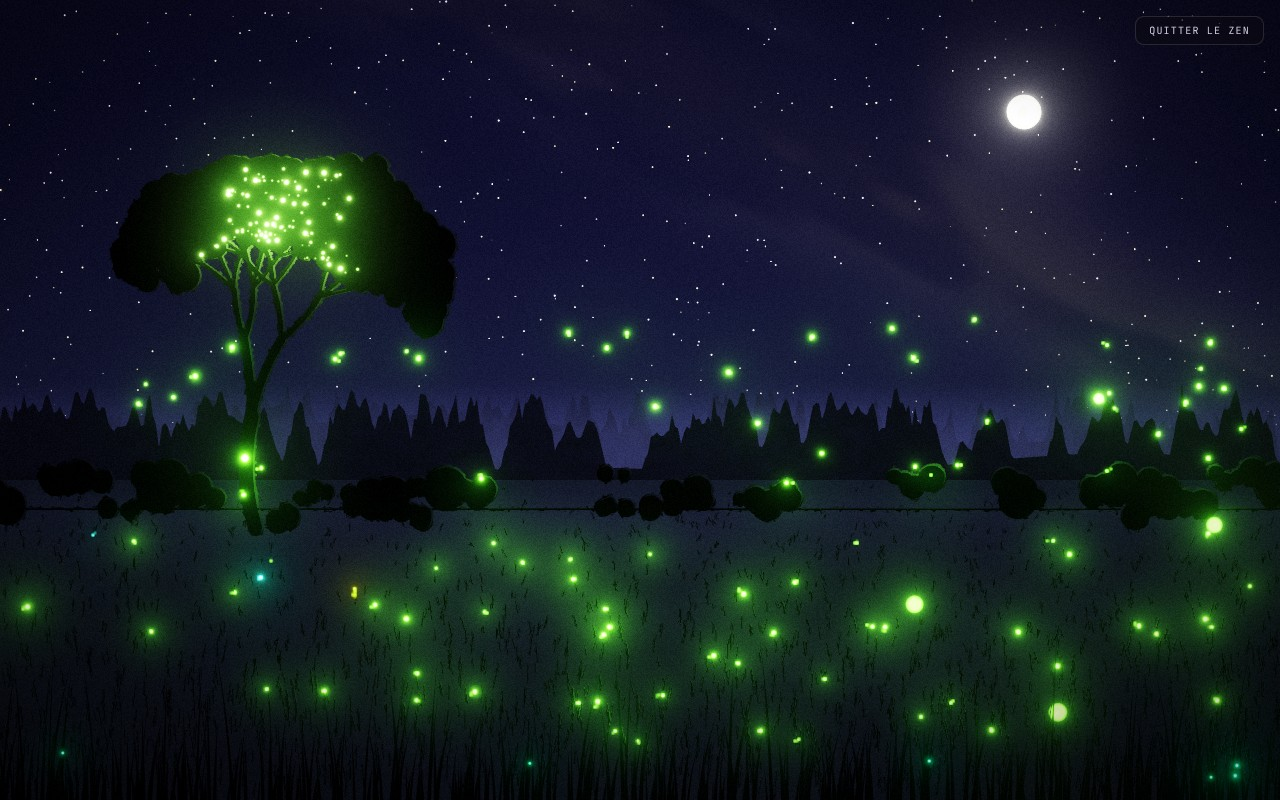
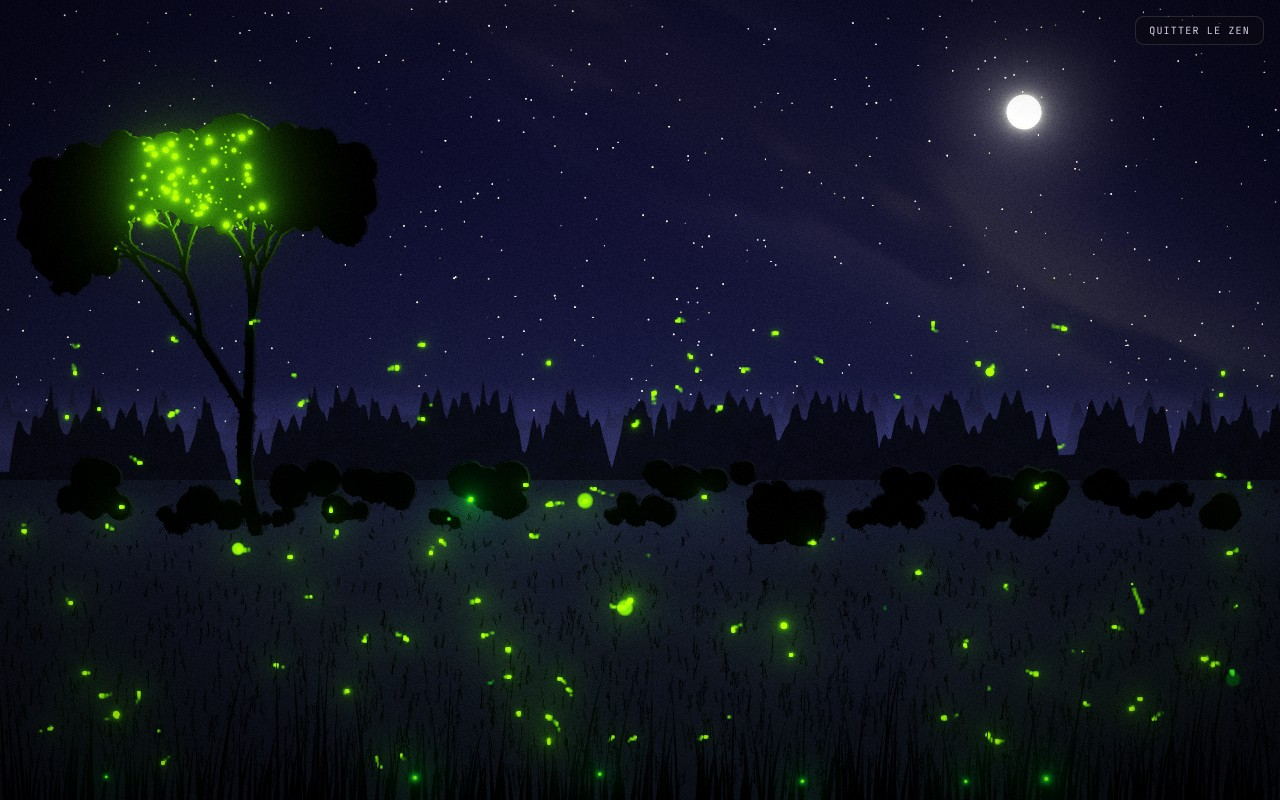
Lucioles : couleurs vraies tirées du spectre, mode doux (relecture de Kurt)
Bandes d'environ 50 nm autour du pic de chaque espèce (Photinus 562-563 nm,
Photuris et Lampyris 552, Pteroptyx 565), converties par la CIE 1931 ;
fausses couleurs seulement à la demande, annoncées comme telles. Avec
env.doux, l'éclairage d'ensemble baisse fortement et les points restent nets.
Trait noir parasite retiré ; étiquettes sous la bande réservée (view.y0).

Claude-Session: https://claude.ai/code/session_01MS9d5JmMjbNw1P1jiRQA2y

diff --git a/app/js/machines/s-lucioles.js b/app/js/machines/s-lucioles.js
@@ -1,6 +1,8 @@
 /* Fascination — Les Lucioles · dialogues de lumière dans la nuit d'été */
 (function boot() {
   if (!window.FK) return setTimeout(boot, 12);
+  // gardés d'une construction à l'autre (le mode zen ou une rotation reconstruisent la machine) : rien ne se réinitialise sans demande
+  const keep = { scene: 'nuit', cfg: null };
   const { TAU, clamp, rnd, rint, layer, scale } = window.FK;
   const gauss = () => (Math.random() + Math.random() + Math.random() + Math.random() - 2) * 1.22;
   const css = (c, a) => `rgba(${c[0] | 0},${c[1] | 0},${c[2] | 0},${a})`;
@@ -11,16 +13,42 @@
     g.fillStyle = gr; g.fillRect(0, 0, 64, 64);
     return s.c;
   }
+  // Couleurs vraies : chaque espèce émet une bande d'environ 50 nm autour de son pic (λmax), convertie en couleur par les
+  // fonctions CIE 1931. Toutes sont jaune-vert, à quelques nanomètres près : les espèces se reconnaissent à leur rythme,
+  // pas à leur couleur (c'est ce qu'imitent les femelles Photuris). Les « fausses couleurs », à la demande, aident à les repérer.
+  // Pics retenus (à confirmer) : Photinus vers 562 nm (Lall et al., 1980), Photuris vers 552, Lampyris vers 552, Pteroptyx vers 565.
+  const LMAX = { carolinus: 562, pyralis: 563, photuris: 552, pteroptyx: 565, lampyris: 552 };
+  function bandeLin(pic, fwhm) {
+    if (window.FKR && window.FKR.couleur && window.FKR.couleur.bande) return window.FKR.couleur.bande(pic, fwhm);
+    const g = (x, m, s1, s2) => { const t = (x - m) / (x < m ? s1 : s2); return Math.exp(-0.5 * t * t); };
+    let X = 0, Y = 0, Z = 0;
+    for (let l = 380; l <= 780; l += 2) {
+      const e = Math.exp(-0.5 * Math.pow((l - pic) / (fwhm / 2.3548), 2));
+      X += e * (1.056 * g(l, 599.8, 37.9, 31.0) + 0.362 * g(l, 442.0, 16.0, 26.7) - 0.065 * g(l, 501.1, 20.4, 26.2));
+      Y += e * (0.821 * g(l, 568.8, 46.9, 40.5) + 0.286 * g(l, 530.9, 16.3, 31.1));
+      Z += e * (1.217 * g(l, 437.0, 11.8, 36.0) + 0.681 * g(l, 459.0, 26.0, 13.8));
+    }
+    const c = [3.2406 * X - 1.5372 * Y - 0.4986 * Z, -0.9689 * X + 1.8758 * Y + 0.0415 * Z, 0.0557 * X - 0.204 * Y + 1.057 * Z].map((v) => Math.max(0, v));
+    const m = Math.max(c[0], c[1], c[2]) || 1;
+    return c.map((v) => v / m);
+  }
+  const versSRGB = (v) => Math.round(255 * (v <= 0.0031308 ? 12.92 * v : 1.055 * Math.pow(v, 1 / 2.4) - 0.055));
   const SPC = {
-    carolinus: { nom: 'Photinus carolinus', fr: 'luciole synchrone', col: [190, 255, 100], rise: 0.05, dec: 0.13 },
-    pyralis: { nom: 'Photinus pyralis', fr: 'luciole « grande ourse »', col: [255, 204, 76], rise: 0.14, dec: 0.3 },
-    photuris: { nom: 'Photuris versicolor', fr: 'luciole femme fatale', col: [110, 255, 196], rise: 0.05, dec: 0.12 },
-    pteroptyx: { nom: 'Pteroptyx malaccae', fr: 'luciole des mangroves', col: [224, 255, 140], rise: 0.03, dec: 0.08 },
-    lampyris: { nom: 'Lampyris noctiluca', fr: 'ver luisant', col: [96, 255, 150], rise: 1, dec: 1 },
+    carolinus: { nom: 'Photinus carolinus', fr: 'luciole synchrone', faux: [190, 255, 100], rise: 0.05, dec: 0.13 },
+    pyralis: { nom: 'Photinus pyralis', fr: 'luciole « grande ourse »', faux: [255, 204, 76], rise: 0.14, dec: 0.3 },
+    photuris: { nom: 'Photuris versicolor', fr: 'luciole femme fatale', faux: [110, 255, 196], rise: 0.05, dec: 0.12 },
+    pteroptyx: { nom: 'Pteroptyx malaccae', fr: 'luciole des mangroves', faux: [224, 255, 140], rise: 0.03, dec: 0.08 },
+    lampyris: { nom: 'Lampyris noctiluca', fr: 'ver luisant', faux: [96, 255, 150], rise: 1, dec: 1 },
   };
+  for (const k in SPC) {
+    const sp = SPC[k];
+    sp.lin = bandeLin(LMAX[k], 50);
+    sp.vrai = sp.lin.map(versSRGB);
+    // la couleur affichée : la vraie, sauf si l'on a demandé les fausses couleurs
+    Object.defineProperty(sp, 'col', { get() { return keep.cfg && keep.cfg.fausses ? sp.faux : sp.vrai; } });
+  }
+  const cssHex = (c) => '#' + c.map((v) => v.toString(16).padStart(2, '0')).join('');
   const envF = (sp, a) => { const s = SPC[sp]; return a < s.rise ? a / s.rise : Math.exp(-(a - s.rise) / s.dec); };
-  // gardés d'une construction à l'autre (le mode zen ou une rotation reconstruisent la machine) : rien ne se réinitialise sans demande
-  const keep = { scene: 'nuit', cfg: null };
 
   window.FASC.push({
     id: 'lucioles', name: 'Les Lucioles', cat: 'Vivant', glyph: '✳',
@@ -28,11 +56,11 @@
     hint: 'OBSERVER : touchez une luciole pour l’identifier · SIGNAL : répondez à un mâle · TORCHE : maintenez pour éclairer · SOUFFLE : glissez · PERTURBER : brisez la synchronie · LÂCHER : ajoutez l’espèce choisie.',
     intro: 'Une nuit d’été où se croisent cinq lucioles du monde entier. Chaque flash est un mot : certaines espèces finissent par clignoter toutes ensemble, d’autres se font la cour par questions-réponses, et une prédatrice imite les femelles pour attirer les mâles… et les dévorer.',
     legend: [
-      { color: '#beff64', name: 'Photinus carolinus', role: 'synchrone · Great Smoky Mountains', desc: 'Salves de 5 à 8 flashs, puis l’obscurité. Chaque mâle avance un peu son horloge quand il voit un voisin s’allumer : peu à peu, des vagues de lumière balaient la vallée, puis tout le monde clignote ensemble.' },
-      { color: '#ffcc4c', name: 'Photinus pyralis', role: 'dialogue · « grande ourse »', desc: 'Le mâle plonge puis remonte en s’allumant, et trace un J. La femelle, posée dans l’herbe, répond environ deux secondes plus tard. À chaque réponse, il se rapproche.' },
-      { color: '#6effc4', name: 'Photuris versicolor', role: 'femme fatale', desc: 'La femelle imite la réponse des femelles Photinus. Le mâle trompé s’approche… et se fait dévorer.' },
-      { color: '#e0ff8c', name: 'Pteroptyx malaccae', role: 'synchrone · mangroves d’Asie', desc: 'Des milliers de mâles se posent sur un même arbre et clignotent à l’unisson, presque deux fois par seconde : l’arbre entier s’illumine comme un phare.' },
-      { color: '#60ff96', name: 'Lampyris noctiluca', role: 'ver luisant · Europe', desc: 'La femelle, sans ailes, grimpe sur une herbe et brille en continu pour attirer les mâles. Elle s’éteint si on la dérange.' },
+      { color: cssHex(SPC.carolinus.vrai), name: 'Photinus carolinus', role: 'synchrone · Great Smoky Mountains', desc: 'Salves de 5 à 8 flashs, puis l’obscurité. Chaque mâle avance un peu son horloge quand il voit un voisin s’allumer : peu à peu, des vagues de lumière balaient la vallée, puis tout le monde clignote ensemble.' },
+      { color: cssHex(SPC.pyralis.vrai), name: 'Photinus pyralis', role: 'dialogue · « grande ourse »', desc: 'Le mâle plonge puis remonte en s’allumant, et trace un J. La femelle, posée dans l’herbe, répond environ deux secondes plus tard. À chaque réponse, il se rapproche.' },
+      { color: cssHex(SPC.photuris.vrai), name: 'Photuris versicolor', role: 'femme fatale', desc: 'La femelle imite la réponse des femelles Photinus. Le mâle trompé s’approche… et se fait dévorer.' },
+      { color: cssHex(SPC.pteroptyx.vrai), name: 'Pteroptyx malaccae', role: 'synchrone · mangroves d’Asie', desc: 'Des milliers de mâles se posent sur un même arbre et clignotent à l’unisson, presque deux fois par seconde : l’arbre entier s’illumine comme un phare.' },
+      { color: cssHex(SPC.lampyris.vrai), name: 'Lampyris noctiluca', role: 'ver luisant · Europe', desc: 'La femelle, sans ailes, grimpe sur une herbe et brille en continu pour attirer les mâles. Elle s’éteint si on la dérange.' },
     ],
     about: [
       'La lumière des lucioles est une lumière froide : une réaction chimique (luciférine et luciférase) convertit presque toute son énergie en lumière, sans chaleur.',
@@ -42,7 +70,7 @@
     ],
     tools: [
       { id: 'observer', label: 'observer', desc: 'Touchez une luciole, même éteinte, pour l’identifier et suivre ce qu’elle fait.' },
-      { id: 'signal', label: 'signal', desc: 'Touchez pour émettre un bref flash. Répondez environ 2 secondes après le J ambré d’un mâle Photinus pyralis : il viendra vers vous. Les synchrones proches s’allument aussi.' },
+      { id: 'signal', label: 'signal', desc: 'Touchez pour émettre un bref flash. Répondez environ 2 secondes après le J lumineux d’un mâle Photinus pyralis : il viendra vers vous. Les synchrones proches s’allument aussi.' },
       { id: 'torche', label: 'torche', desc: 'Maintenez pour éclairer : les lucioles se taisent dans la lumière et s’en écartent, comme sous un lampadaire.' },
       { id: 'souffle', label: 'souffle', desc: 'Glissez pour souffler : l’air pousse les lucioles et couche les herbes.' },
       { id: 'perturber', label: 'perturber', desc: 'Touchez pour dérégler les horloges autour de votre doigt, puis regardez la synchronie se reconstruire.' },
@@ -53,14 +81,14 @@
       let quiet = true;
       const snd = () => !quiet && au && au.on;
       const kS = clamp(Math.min(W, H) / 800, 0.7, 1.4), area = clamp((W * H) / 1.2e6, 0.35, 1.3);
-      const cfg = keep.cfg || (keep.cfg = { moon: 0.2, poll: 0, eps: 0.1, K: 0.9, trail: 0.5, dialog: true, sel: 'carolinus' });
+      const cfg = keep.cfg || (keep.cfg = { moon: 0.2, poll: 0, eps: 0.1, K: 0.9, trail: 0.5, dialog: true, sel: 'carolinus', fausses: false });
       const timers = [];
       const later = (ms, fn) => timers.push(setTimeout(fn, ms));
       const view = () => { const v = env.view || { x0: 0, x1: W }; return { x0: v.x0, x1: v.x1, w: v.x1 - v.x0 }; };
       const hor = H * 0.6, v0 = view();
       const moon = { x: v0.x0 + v0.w * 0.8, y: H * 0.14, r: 17 * kS };
       const SPR = {};
-      for (const k in SPC) SPR[k] = glow(SPC[k].col);
+      for (const k in SPC) { const v = glow(SPC[k].vrai), fz = glow(SPC[k].faux); Object.defineProperty(SPR, k, { get: () => (cfg.fausses ? fz : v) }); }
       const sprCore = glow([255, 255, 236]), sprSig = glow([255, 238, 205]), sprMoon = glow([190, 210, 255]), sprTorch = glow([255, 228, 176]);
 
       /* décor */
@@ -136,7 +164,6 @@
           for (let j = 0; j < 4; j++) { const xx = x + rnd(r, -r), yy = y + rnd(r * 0.3, -r * 0.4), rr = r * rnd(0.8, 0.4); g.moveTo(xx + rr, yy); g.arc(xx, yy, rr, 0, TAU); }
         }
         g.fill();
-        g.fillRect(0, hor + H * 0.035, W, 2);
         g.strokeStyle = '#03050a'; g.lineWidth = 1;
         g.beginPath();
         for (let k = 0; k < W * 1.4; k++) {
@@ -395,7 +422,7 @@
       function drawLabel() {
         const f = label.f, a = Math.min(1, label.t, (6 - label.t) * 2.5);
         if (a <= 0.01 || f.dead) return;
-        const sp = SPC[f.sp], side = f.x > W * 0.65 ? -1 : 1, lx = f.x + side * 46, ly = f.y - 38;
+        const v0 = env.view || {}, sp = SPC[f.sp], side = f.x > W * 0.65 ? -1 : 1, lx = f.x + side * 46, ly = f.y - 38 < (v0.y0 || 0) + 24 ? f.y + 46 : f.y - 38;
         ctx.save();
         ctx.globalAlpha = 1; ctx.globalCompositeOperation = 'source-over';
         ctx.strokeStyle = css(sp.col, (a * 0.7).toFixed(3)); ctx.lineWidth = 1;
@@ -459,7 +486,7 @@
          et la brume. Le ciel suit la lune et la pollution lumineuse : les étoiles faibles et la Voie lactée
          s'effacent quand le ciel s'éclaircit. */
       const LIN = {};
-      for (const k in SPC) LIN[k] = SPC[k].col.map((c) => Math.pow(c / 255, 2.2));
+      for (const k in SPC) { const fz = SPC[k].faux.map((c) => Math.pow(c / 255, 2.2)); Object.defineProperty(LIN, k, { get: () => (cfg.fausses ? fz : SPC[k].lin) }); }
       let gfx = null;
       try { gfx = makeGfx(); } catch (e) { console.warn('Les Lucioles : repli en 2D', e); gfx = null; }
 
@@ -689,7 +716,7 @@ void main(){
 
         const G = { lost: false };
         K.canvas.addEventListener('webglcontextlost', (e) => { e.preventDefault(); G.lost = true; });
-        let trailOn = false;
+        let trailOn = false, soft = 0;
         // une luciole : son cœur (net ou flou selon la distance) et sa lumière portée
         function fly(B, f, b, k) {
           const z = f.z, c = LIN[f.sp], r = (2.2 + 2.2 * b) * Math.sqrt(z) * kS * (k || 1), I = b * 16 * (0.35 + 0.65 * z);
@@ -698,11 +725,14 @@ void main(){
             B.push(f.x, f.y, R, I * Math.min(1, (r / R) * (r / R)) * 1.6, c[0], c[1], c[2], 1);
           } else B.push(f.x, f.y, r, I, c[0], c[1], c[2], 0);
           // la lueur de la lanterne dans l'air humide, puis la lumière portée sur ce qui l'entoure
-          B.push(f.x, f.y, (4 + 11 * b) * z * kS, b * 0.12, c[0], c[1], c[2], 3);
-          bLight.push(f.x, f.y, 110 * kS * (0.6 + 0.4 * z), b * (f.sp === 'lampyris' ? 0.22 : 0.3), c[0], c[1], c[2], 2);
+          B.push(f.x, f.y, (4 + 11 * b) * z * kS, b * 0.12 * (1 - 0.6 * soft), c[0], c[1], c[2], 3);
+          bLight.push(f.x, f.y, 110 * kS * (0.6 + 0.4 * z), b * (f.sp === 'lampyris' ? 0.22 : 0.3) * (1 - 0.82 * soft), c[0], c[1], c[2], 2);
         }
         G.draw = function (dt, nP) {
           bFar.n = bNear.n = bTop.n = bLight.n = bSeg.n = bGrass.n = 0;
+          // mode doux (photosensibilité) : quand des centaines de lucioles s'allument ensemble, l'éclairage d'ensemble
+          // ne doit pas faire clignoter tout l'écran ; on le réduit fortement et l'on garde des points nets
+          soft = env.doux ? 1 : 0;
           const trail = cfg.trail > 0.01;
           for (const f of F) {
             const b = bright(f);
@@ -767,7 +797,7 @@ void main(){
           draw(pSpr, bTop, cab.scene, 4);
           gl.disable(gl.BLEND);
           // 9. développement : halo, courbe filmique, vignettage, grain de pellicule de nuit
-          cab.finish({ expo: 1.8, bloom: 1.0, thr: 0.8, knee: 0.6, radius: 0.8, vig: 0.45, grain: 0.045, grainBlack: 0.5, sat: 1.05 });
+          cab.finish({ expo: 1.8, bloom: soft ? 0.55 : 1.0, thr: 0.8, knee: 0.6, radius: 0.8, vig: 0.45, grain: 0.045, grainBlack: 0.5, sat: 1.05 });
           ctx.save();
           ctx.globalCompositeOperation = 'copy';
           ctx.drawImage(K.canvas, 0, 0, W, H);
@@ -834,7 +864,7 @@ void main(){
           let sb = 0;
           for (const f of F) if (f.sp === 'pteroptyx') sb += bright(f);
           const fr = sb / nP;
-          if (fr > 0.02) { const s = H * 0.75; ctx.globalAlpha = Math.min(1, fr * 0.5 * Math.min(1, nP / 150)); ctx.drawImage(SPR.pteroptyx, tree.cx - s / 2, tree.cy - s / 2, s, s); }
+          if (fr > 0.02) { const s = H * 0.75; ctx.globalAlpha = Math.min(1, fr * 0.5 * Math.min(1, nP / 150)) * (env.doux ? 0.25 : 1); ctx.drawImage(SPR.pteroptyx, tree.cx - s / 2, tree.cy - s / 2, s, s); }
         }
         for (const f of F) if (f.sp === 'pteroptyx' || (f.st !== 'perche' && f.z >= 0.6)) { const b = bright(f); if (b > 0.02) drawGlow(f, b); }
         ctx.globalAlpha = 1;
@@ -856,7 +886,7 @@ void main(){
           const b = bright(f);
           if (b < 0.15 || f.z < 0.6 || f.y < hor) continue;
           const s = 190 * f.z * kS;
-          ctx.globalAlpha = b * 0.09; ctx.drawImage(SPR[f.sp], f.x - s / 2, f.y - s / 2, s, s);
+          ctx.globalAlpha = b * 0.09 * (env.doux ? 0.25 : 1); ctx.drawImage(SPR[f.sp], f.x - s / 2, f.y - s / 2, s, s);
         }
         for (let i = sigs.length - 1; i >= 0; i--) {
           const s = sigs[i];
@@ -976,6 +1006,8 @@ void main(){
           L.push({ type: 'section', label: 'Affichage' });
           L.push({ type: 'slider', label: 'Pose longue', min: 0, max: 1, step: 0.02, value: cfg.trail, fmt: (v) => (v < 0.01 ? 'désactivée' : Math.round(v * 100) + ' %'), set: (v) => { cfg.trail = v; } });
           L.push({ type: 'toggle', label: 'Montrer les dialogues', value: cfg.dialog, set: (v) => { cfg.dialog = v; } });
+          L.push({ type: 'toggle', label: 'Couleurs pour reconnaître les espèces', value: !!cfg.fausses, set: (v) => { cfg.fausses = v; } });
+          if (cfg.fausses) L.push({ type: 'note', text: 'Fausses couleurs : en vrai, toutes ces lucioles brillent d’un jaune-vert presque identique (de 552 à 565 nm). Elles se reconnaissent à leur rythme.' });
           return L;
         },
       };

diff --git a/docs/rendu/RENDU-A.md b/docs/rendu/RENDU-A.md
@@ -14,4 +14,6 @@ Branche `rendu-a`, nuit du 12 au 13/11/2026. La science des machines ne change p
 - **Herbes du premier plan** : dessinées sur le GPU (une bande courbe par lame, antialiasée), elles suivent toujours le vent et le souffle.
 - **Coût** : bruits fixes (Voie lactée, sol, bord des feuilles) calculés une seule fois ; résolution de rendu ×1,25 sur mobile, ×1,5 ailleurs. En rendu logiciel (SwiftShader), environ 11 images/s contre 17 pour l'ancien rendu 2D ; sur une vraie carte graphique, le rendu est très en deçà du budget, et le régulateur de la coquille baisse la résolution si besoin.
 - **Correctif au passage** : la scène et les réglages sont gardés d'une construction à l'autre (objet `keep`). Avant, passer en mode zen ou tourner la tablette ramenait toujours à « Nuit d'été », contre la décision « ne jamais réinitialiser sans demande ».
-- **Question ouverte (pour Kurt)** : les couleurs des espèces restent celles du code. Calculées depuis leur spectre (λmax de 550 à 570 nm), elles seraient plus proches les unes des autres : jaune-vert pour toutes, le « J ambré » de *P. pyralis* compris.
+- **Couleurs vraies (relecture de Kurt, 13/11)** : chaque espèce émet une bande d'environ 50 nm autour de son pic, convertie par les fonctions CIE 1931 (`FKR.couleur.bande`, repli local identique). Pics retenus, à confirmer : *Photinus* 562-563 nm (Lall et al., 1980), *Photuris* et *Lampyris* 552 nm, *Pteroptyx* 565 nm. Toutes sont jaune-vert : les espèces se reconnaissent à leur rythme. L'interrupteur « Couleurs pour reconnaître les espèces » (éteint par défaut) rend les anciennes fausses couleurs, annoncées comme telles. La légende du panneau montre les vraies.
+- **Mode doux (`env.doux`, photosensibilité)** : l'éclairage d'ensemble (champ qui éclaire prairie et couronne) baisse de 82 %, la lueur autour des lucioles de 60 %, le halo de moitié ; les points restent nets. Même chose dans le repli 2D.
+- **Recette qualité** : le trait noir droit sous la haie est retiré ; les étiquettes passent sous la bande réservée du Labo (`env.view.y0`).
